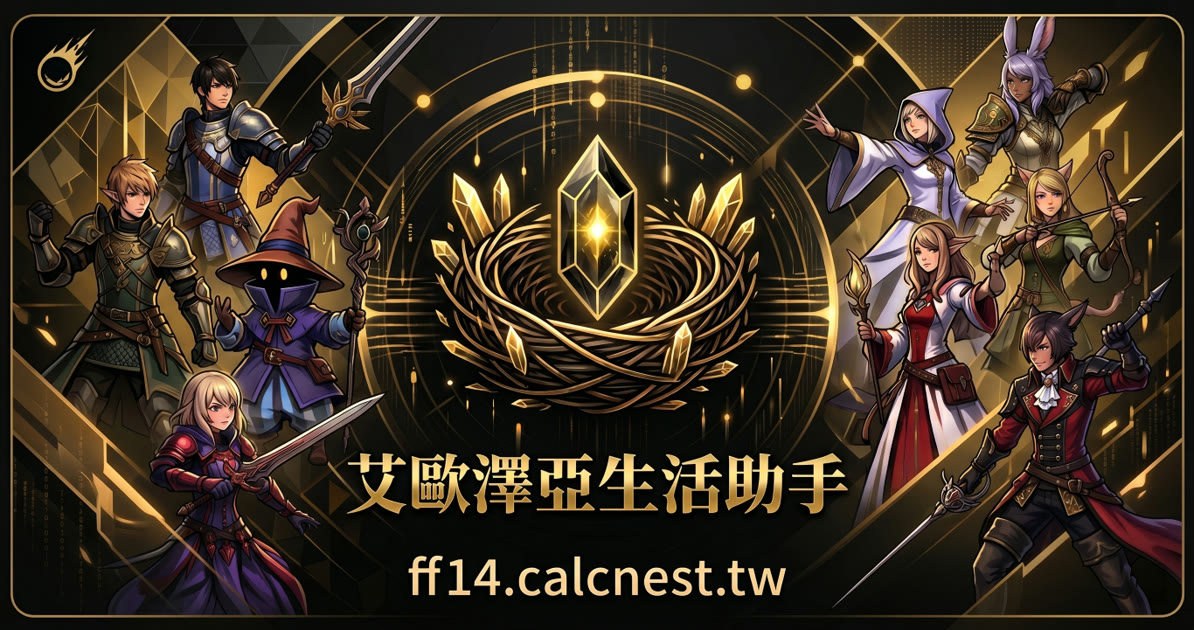
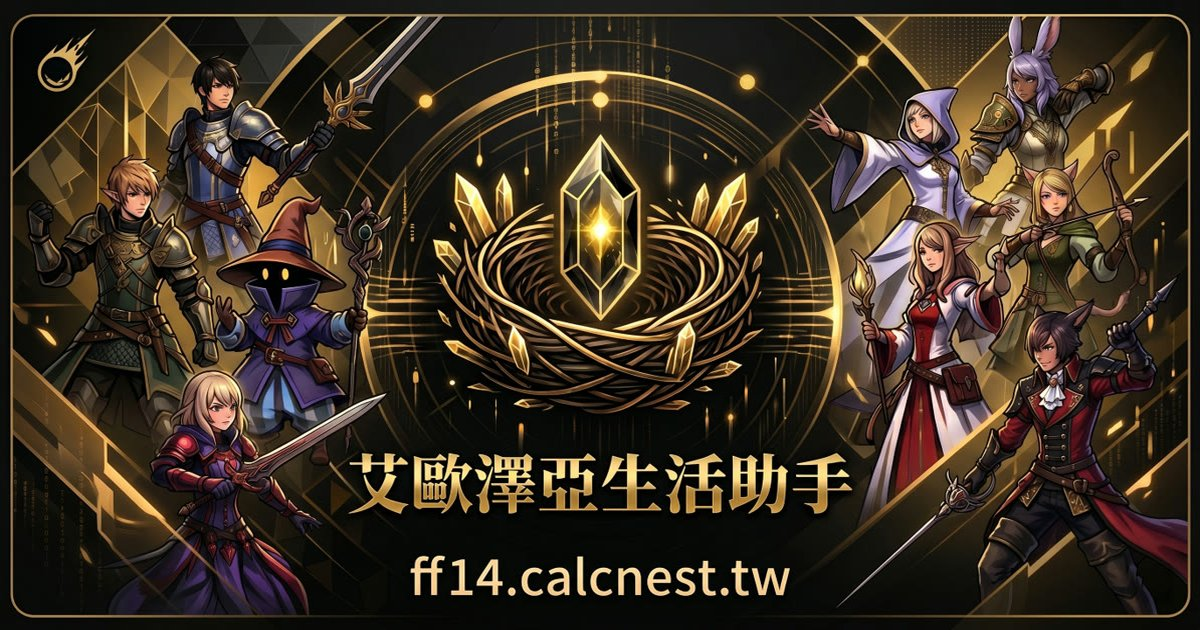
seo: exact 1200x630 OG image, add og:image:type and image alt text
The OG image was 1194x630 while the tags declared 1200x630; resized to
match (also 266 KB -> 199 KB). Added og:image:type, og:image:alt and
twitter:image:alt.

Claude-Session: https://claude.ai/code/session_01CCKg3oLguLMUDET3nbbuD9

diff --git a/index.html b/index.html
@@ -45,6 +45,8 @@
     <meta property="og:image"       content="https://ff14-tw.xyz/og-image-compressed.jpg" />
     <meta property="og:image:width"  content="1200" />
     <meta property="og:image:height" content="630" />
+    <meta property="og:image:type"   content="image/jpeg" />
+    <meta property="og:image:alt"    content="艾歐澤亞助手：FF14 繁中服工具箱" />
     <meta property="og:url"        content="https://ff14-tw.xyz/" />
     <meta property="og:site_name"  content="艾歐澤亞助手" />
     <meta property="og:locale"     content="zh_TW" />
@@ -53,6 +55,7 @@
     <meta name="twitter:title"       content="艾歐澤亞助手｜FF14 繁中服工具箱" />
     <meta name="twitter:description" content="FF14 繁中版多功能工具箱" />
     <meta name="twitter:image"       content="https://ff14-tw.xyz/og-image-compressed.jpg" />
+    <meta name="twitter:image:alt"   content="艾歐澤亞助手：FF14 繁中服工具箱" />
   </head>
   <body>
     <!-- Loading screen — shown before React hydrates -->
